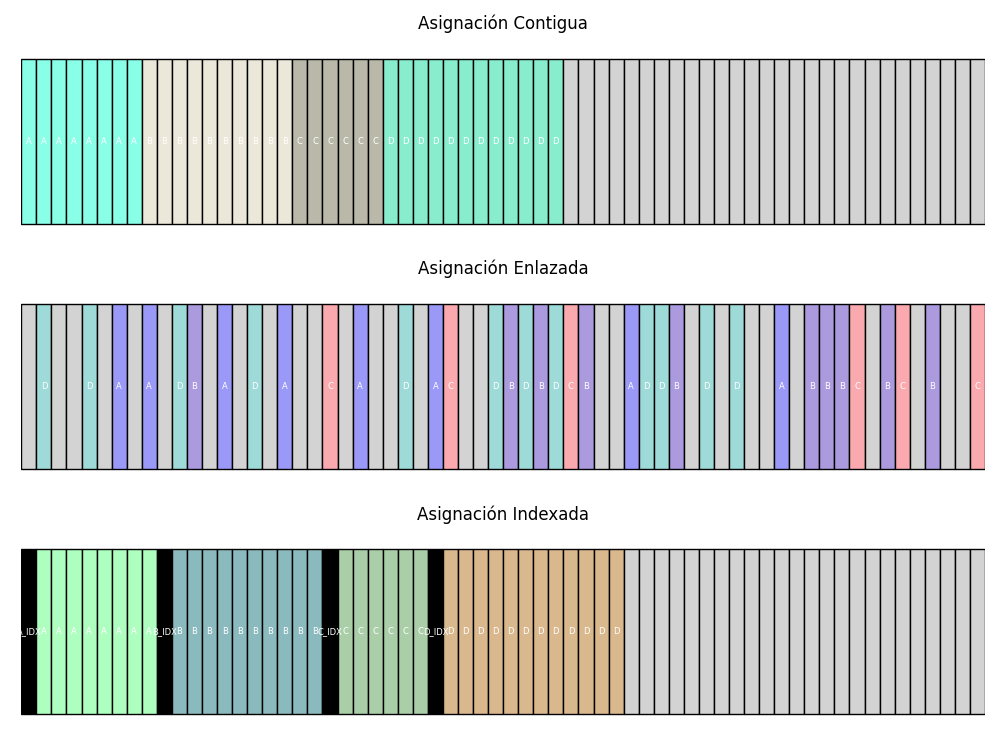
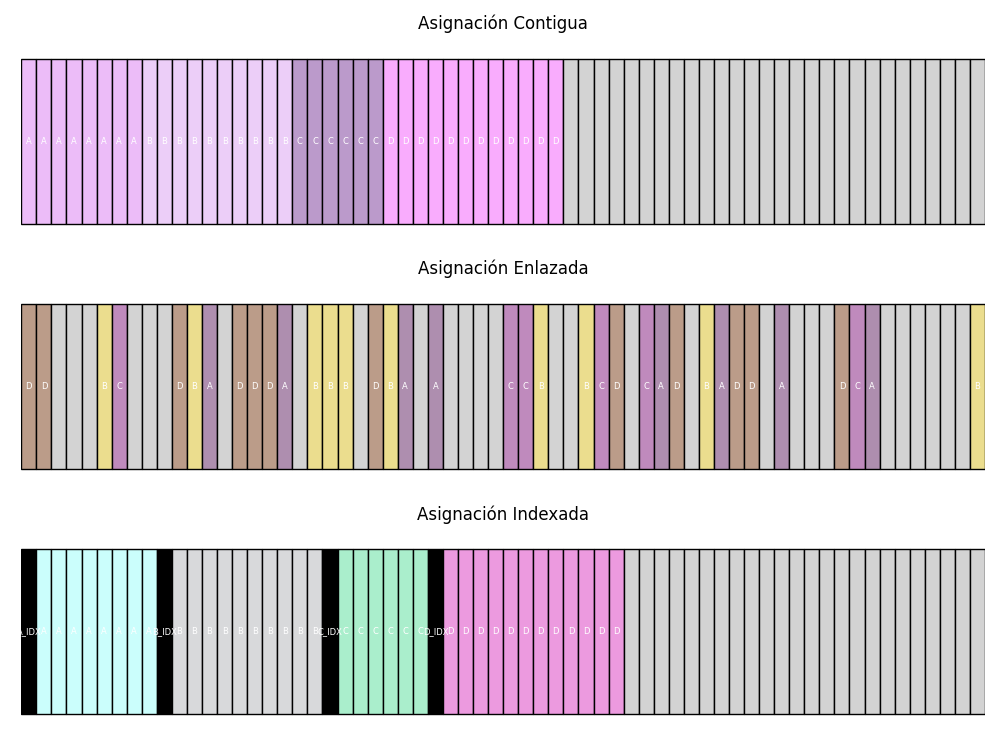
gestion de disco

diff --git a/gestion_almacenamiento_secundario.py b/gestion_almacenamiento_secundario.py
@@ -1,107 +1,158 @@
-import matplotlib.pyplot as plt
+# -*- coding: utf-8 -*-
+"""
+Simulación de algoritmos de asignación de espacio en almacenamiento secundario
+Métodos: Contigua, Enlazada, Indexada
+"""
 import random
+import matplotlib.pyplot as plt
+import pandas as pd
 
-# Tamaño del disco simulado
-DISCO_TAMANO = 64
+# Parámetros de simulación
+N_BLOQUES = 64
+ARCHIVOS_INICIALES = [("A", 8), ("B", 10), ("C", 6), ("D", 12)]
+T_SEEK = 1.0        # Tiempo de seek (ms)
+T_TRANS = 0.1       # Tiempo de transferencia por bloque (ms)
+T_PTR = 0.05        # Tiempo adicional por puntero (ms)
+T_SEEK_IDX = 1.2    # Seek para índice (ms)
+T_TRANS_IDX = 0.2   # Transferencia de índice (ms)
+N_ACCESOS_ALE = 10  # Accesos aleatorios a simular
 
-# Crear un disco vacío
+# --- Funciones básicas ---
+
 def crear_disco():
-    return ["Libre"] * DISCO_TAMANO
+    return [None] * N_BLOQUES
 
-# Asignación contigua: bloques seguidos
-def asignacion_contigua(disco, archivo, tamano):
-    for i in range(DISCO_TAMANO - tamano + 1):
-        if all(b == "Libre" for b in disco[i:i + tamano]):
-            for j in range(tamano):
-                disco[i + j] = archivo
+def borrar_archivo(disco, etiqueta):
+    for i, b in enumerate(disco):
+        if b == etiqueta or b == f"{etiqueta}_IDX":
+            disco[i] = None
+
+# Asignación contigua
+def asignacion_contigua(disco, etiqueta, k):
+    for i in range(N_BLOQUES - k + 1):
+        if all(b is None for b in disco[i:i + k]):
+            for j in range(k):
+                disco[i + j] = etiqueta
             return True
     return False
 
-# Asignación enlazada: bloques aleatorios
-def asignacion_enlazada(disco, archivo, tamano):
-    libres = [i for i, b in enumerate(disco) if b == "Libre"]
-    if len(libres) >= tamano:
-        bloques = random.sample(libres, tamano)
-        for i in bloques:
-            disco[i] = archivo
-        return True
-    return False
+# Asignación enlazada
+def asignacion_enlazada(disco, etiqueta, k):
+    libres = [i for i, b in enumerate(disco) if b is None]
+    if len(libres) < k:
+        return False
+    seleccion = random.sample(libres, k)
+    for i in seleccion:
+        disco[i] = etiqueta
+    return True
 
-# Asignación indexada: un bloque índice + bloques de datos
-def asignacion_indexada(disco, archivo, tamano):
-    libres = [i for i, b in enumerate(disco) if b == "Libre"]
-    if len(libres) >= tamano + 1:
-        index_block = libres[0]
-        data_blocks = libres[1:tamano + 1]
-        disco[index_block] = f"{archivo}_IDX"
-        for i in data_blocks:
-            disco[i] = archivo
-        return True
-    return False
+# Asignación indexada
+def asignacion_indexada(disco, etiqueta, k):
+    libres = [i for i, b in enumerate(disco) if b is None]
+    if len(libres) < k + 1:
+        return False
+    idx = libres[0]
+    disco[idx] = f"{etiqueta}_IDX"
+    for i in libres[1:k+1]:
+        disco[i] = etiqueta
+    return True
 
-# Mostrar estado del disco en consola
-def mostrar_disco_consola(disco, titulo):
-    print(f"\n📋 Estado del disco - {titulo}")
-    bloques_por_archivo = {}
-    for i, bloque in enumerate(disco):
-        if bloque != "Libre":
-            archivo = bloque.replace("_IDX", "")
-            if archivo not in bloques_por_archivo:
-                bloques_por_archivo[archivo] = []
-            bloques_por_archivo[archivo].append(i)
-    for archivo, bloques in bloques_por_archivo.items():
-        print(f"Archivo {archivo}: bloques -> {bloques}")
-    libres = [i for i, b in enumerate(disco) if b == "Libre"]
-    print(f"Bloques libres: {libres}")
+# --- Métricas ---
 
-# Visualización del disco con colores
-def graficar_disco(discos, titulos):
-    fig, axes = plt.subplots(len(discos), 1, figsize=(10, 2.5 * len(discos)))
-    for ax, disco, titulo in zip(axes, discos, titulos):
-        colores = {}
-        for i, bloque in enumerate(disco):
-            etiqueta = disco[i]
-            if etiqueta == "Libre":
-                color = 'lightgray'
-            elif "_IDX" in etiqueta:
-                color = 'black'
-            else:
-                if etiqueta not in colores:
-                    colores[etiqueta] = "#" + ''.join(random.choices("89ABCDEF", k=6))
-                color = colores[etiqueta]
-            ax.barh(0, 1, left=i, color=color, edgecolor='black')
-            if etiqueta != "Libre":
-                ax.text(i + 0.5, 0, etiqueta, ha='center', va='center', fontsize=6, color='white')
-        ax.set_xlim(0, DISCO_TAMANO)
-        ax.set_ylim(-0.5, 0.5)
-        ax.set_title(titulo)
-        ax.axis('off')
+def ocupacion(disco):
+    usados = sum(1 for b in disco if b is not None)
+    return usados / N_BLOQUES * 100
+
+def fragmentacion_externa(disco):
+    huecos = []
+    tamaño = 0
+    for b in disco + ["X"]:
+        if b is None:
+            tamaño += 1
+        elif tamaño > 0:
+            huecos.append(tamaño)
+            tamaño = 0
+    if not huecos:
+        return 0, 0
+    return len(huecos), sum(huecos)/len(huecos)
+
+def tiempo_secuencial(disco, etiqueta, metodo):
+    # Número de bloques del archivo
+    k = sum(1 for b in disco if b == etiqueta)
+    if metodo == 'contigua':
+        return k * (T_SEEK + T_TRANS)
+    if metodo == 'enlazada':
+        return k * (T_SEEK + T_TRANS) + (k - 1) * T_PTR
+    if metodo == 'indexada':
+        return T_SEEK_IDX + T_TRANS_IDX + k * T_TRANS
+    return None
+
+def tiempo_aleatorio(disco, etiqueta, metodo):
+    posiciones = [i for i, b in enumerate(disco) if b == etiqueta]
+    if not posiciones:
+        return None
+    tiempos = []
+    for _ in range(N_ACCESOS_ALE):
+        pos = random.choice(posiciones)
+        if metodo == 'contigua':
+            tiempos.append(T_SEEK + T_TRANS)
+        elif metodo == 'enlazada':
+            # suponemos recorrido medio a la mitad de la cadena
+            pasos = posiciones.index(pos)
+            tiempos.append(T_SEEK + T_TRANS + pasos * T_PTR)
+        else:  # indexada
+            tiempos.append(T_SEEK_IDX + T_TRANS_IDX + T_TRANS)
+    return sum(tiempos) / len(tiempos)
+
+# --- Simulación ---
+
+def simular():
+    resultados = []
+    # Crear discos vacíos
+    discos = {
+        'contigua': crear_disco(),
+        'enlazada': crear_disco(),
+        'indexada': crear_disco()
+    }
+    # 1. Inserción inicial A, B, C, D
+    for etiqueta, k in ARCHIVOS_INICIALES:
+        for m, d in discos.items():
+            func = {
+                'contigua': asignacion_contigua,
+                'enlazada': asignacion_enlazada,
+                'indexada': asignacion_indexada
+            }[m]
+            func(d, etiqueta, k)
+    # 2. Borrado de C
+    for d in discos.values():
+        borrar_archivo(d, 'C')
+    # 3. Inserción de E (tamaño 5)
+    for d in discos.values():
+        asignacion_contigua(d, 'E', 5) if d is discos['contigua'] else \
+        asignacion_enlazada(d, 'E', 5) if d is discos['enlazada'] else \
+        asignacion_indexada(d, 'E', 5)
+    # 4. Cálculo métricas
+    for metodo, d in discos.items():
+        uso = ocupacion(d)
+        n_huecos, media_hue = fragmentacion_externa(d)
+        t_seq = tiempo_secuencial(d, 'B', metodo)
+        t_ale = tiempo_aleatorio(d, 'B', metodo)
+        resultados.append({
+            'Método': metodo,
+            'Uso (%)': uso,
+            'N huescos': n_huecos,
+            'Media huecos': media_hue,
+            'T secuencial B (ms)': t_seq,
+            'T aleatorio B (ms)': t_ale
+        })
+    return pd.DataFrame(resultados)
+
+if __name__ == '__main__':
+    df = simular()
+    print(df)
+    # Gráficos de uso y tiempos
+    df.set_index('Método')[['Uso (%)', 'T secuencial B (ms)', 'T aleatorio B (ms)']].plot.bar(figsize=(8,5))
+    plt.ylabel('Valor')
+    plt.title('Comparativa métricas por método')
     plt.tight_layout()
-    plt.savefig("gestion_disco.png")
     plt.show()
-    print("📷 Imagen exportada como 'gestion_disco.png'")
-
-# Archivos de prueba: (nombre, tamaño en bloques)
-archivos = [("A", 8), ("B", 10), ("C", 6), ("D", 12)]
-
-# Crear discos para cada estrategia
-disco_contiguo = crear_disco()
-disco_enlazado = crear_disco()
-disco_indexado = crear_disco()
-
-# Asignar archivos
-for archivo, tam in archivos:
-    asignacion_contigua(disco_contiguo, archivo, tam)
-    asignacion_enlazada(disco_enlazado, archivo, tam)
-    asignacion_indexada(disco_indexado, archivo, tam)
-
-# Mostrar por consola
-mostrar_disco_consola(disco_contiguo, "Asignación Contigua")
-mostrar_disco_consola(disco_enlazado, "Asignación Enlazada")
-mostrar_disco_consola(disco_indexado, "Asignación Indexada")
-
-# Mostrar gráficamente
-graficar_disco(
-    [disco_contiguo, disco_enlazado, disco_indexado],
-    ["Asignación Contigua", "Asignación Enlazada", "Asignación Indexada"]
-)
